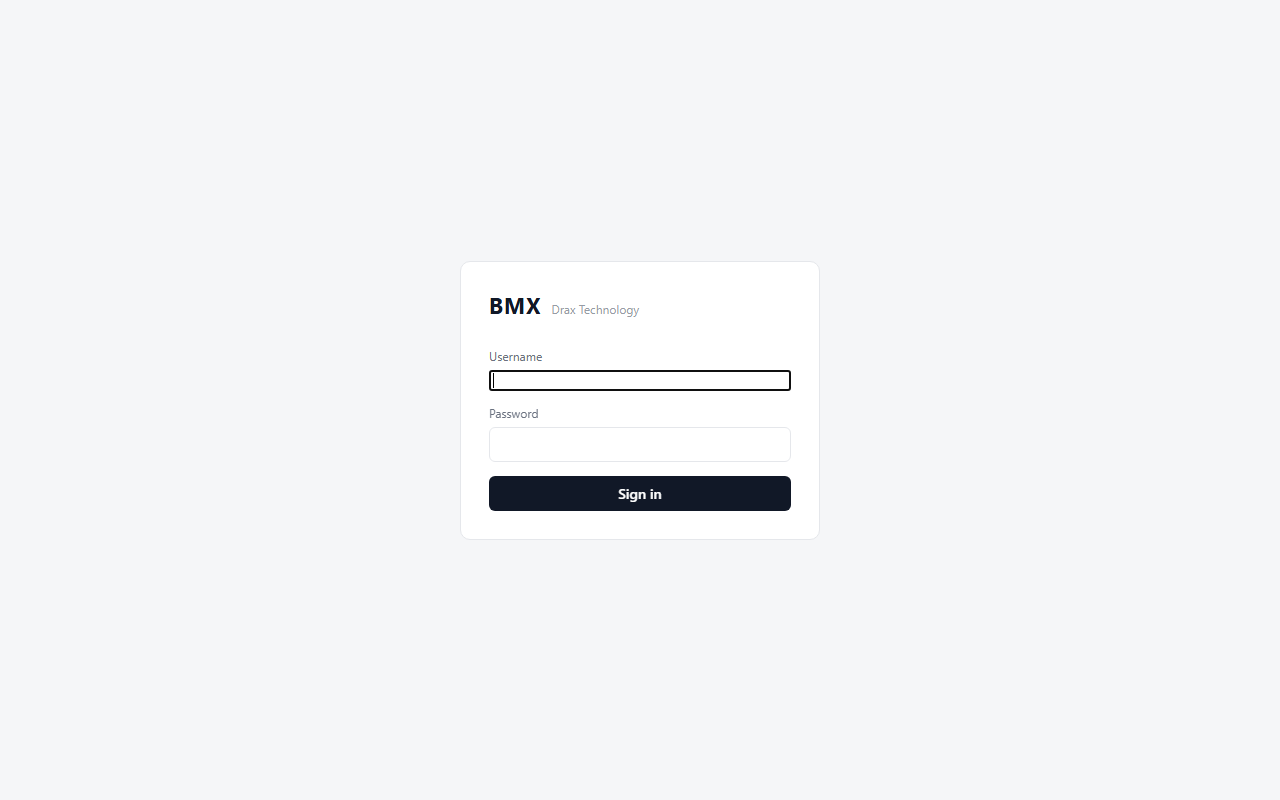
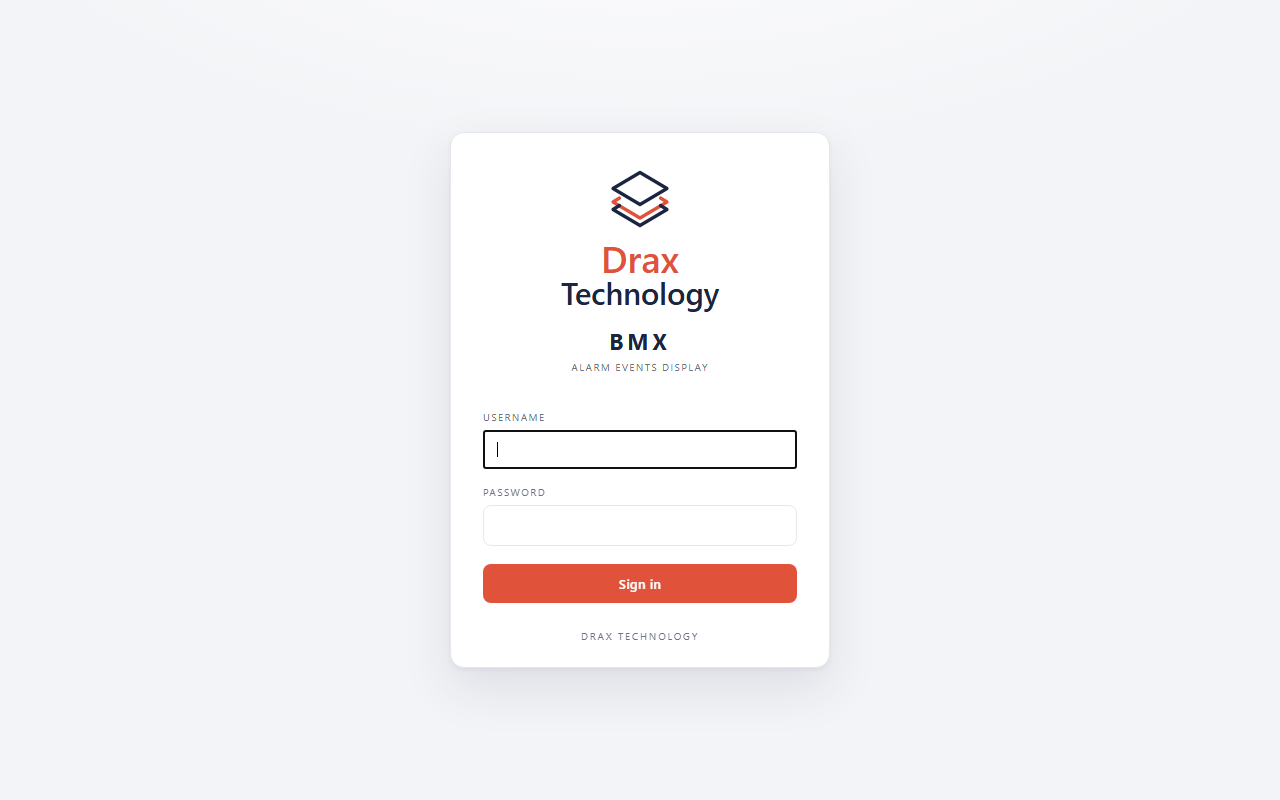
Drax Technology branding: inline SVG mark and wordmark, navy/orange palette, appliance-style status LEDs, letterspaced labels, footer

Changed region(s): [[0.375, 0.3125, 0.625, 0.6562], [0.375, 0.6875, 0.625, 0.8125], [0.4688, 0.2188, 0.5312, 0.2812]]

diff --git a/BMX/wwwroot/app.css b/BMX/wwwroot/app.css
@@ -1,22 +1,33 @@
+/* BMX · Drax Technology
+   Brand: navy #1b2540 and orange #e0523a from the Drax mark; the appliance
+   face look — white surfaces, a dark display, letterspaced uppercase labels,
+   small status LEDs. */
+
 :root {
-    --bg: #f5f6f8;
-    --panel: #ffffff;
-    --ink: #1f2937;
+    --navy: #1b2540;
+    --navy-deep: #131a2e;
+    --orange: #e0523a;
+    --orange-soft: #fdece8;
+    --bg: #f3f4f7;
+    --surface: #ffffff;
+    --ink: #1b2540;
     --muted: #6b7280;
-    --line: #e5e7eb;
-    --brand: #111827;
-    --ok: #15803d;
-    --bad: #b91c1c;
-    --alarm-bg: #fee2e2;
-    --alarm-ink: #7f1d1d;
-    --cleared-bg: #dcfce7;
+    --line: #e4e7ec;
+    --ok: #22c55e;
+    --amber: #f59e0b;
+    --red: #dc2626;
+    --alarm-bg: #fde8e4;
+    --alarm-ink: #7a1f12;
+    --cleared-bg: #e7f7ec;
     --cleared-ink: #14532d;
-    --fault-bg: #fef3c7;
-    --fault-ink: #78350f;
-    --iso-bg: #cffafe;
+    --fault-bg: #fff4d6;
+    --fault-ink: #713f12;
+    --iso-bg: #e0f4f8;
     --iso-ink: #164e63;
-    --control-bg: #e0e7ff;
-    --control-ink: #312e81;
+    --control-bg: #e8ebf5;
+    --control-ink: #1b2540;
+    --radius: 10px;
+    --shadow: 0 1px 2px rgba(27,37,64,.06), 0 8px 24px rgba(27,37,64,.06);
 }
 
 * { box-sizing: border-box; }
@@ -25,132 +36,226 @@ html, body {
     margin: 0;
     background: var(--bg);
     color: var(--ink);
-    font-family: "Segoe UI", system-ui, -apple-system, sans-serif;
+    font-family: "Segoe UI", system-ui, -apple-system, "Helvetica Neue", sans-serif;
     font-size: 14px;
+    -webkit-font-smoothing: antialiased;
 }
 
 a { color: inherit; text-decoration: none; }
 
-h1 { font-size: 20px; font-weight: 600; margin: 0 0 16px; }
-h2 { font-size: 15px; font-weight: 600; margin: 0 0 12px; }
+h1 { font-size: 20px; font-weight: 600; margin: 0 0 16px; letter-spacing: -.01em; }
+h2 {
+    font-size: 11px;
+    font-weight: 600;
+    letter-spacing: .14em;
+    text-transform: uppercase;
+    color: var(--muted);
+    margin: 0 0 14px;
+}
 
+/* ---- logo ---- */
+.drax-logo { display: inline-flex; align-items: center; gap: 10px; }
+.drax-logo-stacked { flex-direction: column; gap: 10px; }
+.drax-mark { display: block; flex: none; }
+.drax-wordmark { display: inline-flex; flex-direction: column; line-height: 1.02; font-weight: 600; letter-spacing: -.01em; }
+.drax-logo-stacked .drax-wordmark { align-items: center; }
+.drax-word-drax { color: var(--orange); font-size: calc(var(--logo-size) * .58); }
+.drax-word-tech { color: var(--navy); font-size: calc(var(--logo-size) * .48); font-weight: 500; }
+
+.product { display: inline-flex; flex-direction: column; line-height: 1.05; padding-left: 14px; border-left: 1px solid var(--line); }
+.product-name { font-weight: 700; font-size: 17px; letter-spacing: .12em; color: var(--navy); }
+.product-tag { font-size: 10px; letter-spacing: .14em; text-transform: uppercase; color: var(--muted); }
+
+/* ---- shell ---- */
 .shell { min-height: 100vh; display: flex; flex-direction: column; }
 
 .topbar {
     display: flex;
     align-items: center;
-    gap: 24px;
-    height: 52px;
-    padding: 0 20px;
-    background: var(--brand);
-    color: #fff;
+    gap: 28px;
+    height: 60px;
+    padding: 0 24px;
+    background: var(--surface);
+    border-bottom: 1px solid var(--line);
+    box-shadow: 0 1px 0 rgba(27,37,64,.03);
 }
+.topbar-brand { display: inline-flex; align-items: center; gap: 14px; }
 
-.brand { display: flex; align-items: baseline; gap: 10px; }
-.brand-mark { font-weight: 700; font-size: 18px; letter-spacing: .04em; }
-.brand-sub { font-size: 12px; opacity: .7; }
-
-.topnav { display: flex; gap: 4px; }
+.topnav { display: flex; gap: 2px; margin-left: 8px; }
 .topnav a {
-    padding: 6px 12px;
-    border-radius: 6px;
-    opacity: .75;
+    padding: 8px 14px;
+    border-radius: 8px;
+    color: var(--muted);
+    font-weight: 500;
+    font-size: 13px;
+    letter-spacing: .02em;
 }
-.topnav a:hover { opacity: 1; background: rgba(255,255,255,.08); }
-.topnav a.active { opacity: 1; background: rgba(255,255,255,.14); }
+.topnav a:hover { color: var(--navy); background: var(--bg); }
+.topnav a.active { color: var(--navy); background: var(--control-bg); }
 
 .topbar-right { margin-left: auto; display: flex; align-items: center; gap: 12px; }
-.who { opacity: .8; }
+.who { color: var(--muted); font-size: 13px; }
 form.inline { display: inline; margin: 0; }
 
-.content { padding: 20px; flex: 1; }
+.content { padding: 22px 24px; flex: 1; }
 
-.statusbar { display: flex; flex-wrap: wrap; gap: 8px; margin-bottom: 12px; }
-.pill {
-    padding: 4px 10px;
-    border-radius: 999px;
-    background: var(--panel);
-    border: 1px solid var(--line);
+.footer {
+    padding: 14px 24px;
     color: var(--muted);
-    font-size: 12px;
+    font-size: 10px;
+    letter-spacing: .14em;
+    text-transform: uppercase;
+    display: flex;
+    gap: 10px;
+    border-top: 1px solid var(--line);
 }
-.pill-ok { border-color: var(--ok); color: var(--ok); }
-.pill-bad { border-color: var(--bad); color: var(--bad); }
+.footer .dot { opacity: .5; }
 
-.toolbar { display: flex; flex-wrap: wrap; align-items: center; gap: 8px; margin-bottom: 12px; }
+/* ---- status LEDs (the appliance face) ---- */
+.statusbar {
+    display: flex;
+    flex-wrap: wrap;
+    align-items: center;
+    gap: 22px;
+    margin-bottom: 14px;
+    padding: 12px 18px;
+    background: var(--navy-deep);
+    color: #e5e7eb;
+    border-radius: var(--radius);
+    font-size: 11px;
+    letter-spacing: .14em;
+    text-transform: uppercase;
+}
+.led { display: inline-flex; align-items: center; gap: 9px; }
+.led i { width: 8px; height: 8px; border-radius: 50%; background: #4b5563; box-shadow: 0 0 0 2px rgba(255,255,255,.05); }
+.led-ok i { background: var(--ok); box-shadow: 0 0 8px rgba(34,197,94,.7); }
+.led-bad i { background: var(--red); box-shadow: 0 0 8px rgba(220,38,38,.7); }
+.led-alarm i { background: var(--orange); box-shadow: 0 0 8px rgba(224,82,58,.8); animation: pulse 1.2s ease-in-out infinite; }
+.led-idle i { background: #4b5563; }
+.status-meta { margin-left: auto; color: #9ca3af; letter-spacing: .08em; text-transform: none; font-size: 12px; }
+
+@keyframes pulse { 0%, 100% { opacity: 1; } 50% { opacity: .35; } }
+
+/* ---- toolbar ---- */
+.toolbar { display: flex; flex-wrap: wrap; align-items: center; gap: 8px; margin-bottom: 14px; }
 .toolbar .spacer { flex: 1; }
 .filter, .panel-select, input[type=text], input[type=password] {
-    padding: 7px 10px;
+    padding: 8px 12px;
     border: 1px solid var(--line);
-    border-radius: 6px;
-    background: var(--panel);
+    border-radius: 8px;
+    background: var(--surface);
     font: inherit;
     color: inherit;
+    outline: none;
 }
-.filter { min-width: 320px; }
+.filter:focus, .panel-select:focus, input[type=text]:focus, input[type=password]:focus {
+    border-color: var(--navy);
+    box-shadow: 0 0 0 3px rgba(27,37,64,.10);
+}
+.filter { min-width: 340px; }
 .check { color: var(--muted); display: flex; align-items: center; gap: 6px; }
 
 .btn {
-    padding: 7px 14px;
+    padding: 8px 16px;
     border: 1px solid transparent;
-    border-radius: 6px;
-    background: var(--panel);
+    border-radius: 8px;
+    background: var(--surface);
     font: inherit;
     font-weight: 600;
+    font-size: 13px;
+    letter-spacing: .02em;
     cursor: pointer;
     color: var(--ink);
+    transition: filter .12s ease, transform .05s ease;
 }
-.btn:disabled { opacity: .45; cursor: default; }
-.btn-primary { background: var(--brand); color: #fff; }
-.btn-quiet { background: transparent; border-color: var(--line); color: inherit; font-weight: 500; }
-.topbar .btn-quiet { border-color: rgba(255,255,255,.25); color: #fff; }
-.btn-amber { background: #f59e0b; color: #fff; }
-.btn-green { background: #16a34a; color: #fff; }
-.btn-block { width: 100%; margin-top: 8px; }
+.btn:hover:not(:disabled) { filter: brightness(1.06); }
+.btn:active:not(:disabled) { transform: translateY(1px); }
+.btn:disabled { opacity: .4; cursor: default; }
+.btn-primary { background: var(--orange); color: #fff; }
+.btn-navy { background: var(--navy); color: #fff; }
+.btn-amber { background: var(--amber); color: #fff; }
+.btn-quiet { background: transparent; border-color: var(--line); color: var(--muted); font-weight: 500; }
+.btn-quiet:hover { color: var(--navy); }
+.btn-block { width: 100%; margin-top: 12px; padding: 10px 16px; }
 
 .notice {
-    padding: 8px 12px;
+    padding: 8px 14px;
     margin-bottom: 12px;
-    background: var(--panel);
-    border-left: 3px solid var(--brand);
-    border-radius: 4px;
+    background: var(--surface);
+    border-left: 3px solid var(--orange);
+    border-radius: 6px;
     color: var(--muted);
 }
 
-.table-wrap { background: var(--panel); border: 1px solid var(--line); border-radius: 8px; overflow: auto; }
+/* ---- events table ---- */
+.table-wrap { background: var(--surface); border: 1px solid var(--line); border-radius: var(--radius); overflow: auto; box-shadow: var(--shadow); }
 table.events { width: 100%; border-collapse: collapse; }
-table.events th, table.events td { padding: 8px 12px; text-align: left; border-bottom: 1px solid var(--line); white-space: nowrap; }
-table.events th { font-weight: 600; color: var(--muted); font-size: 12px; text-transform: uppercase; letter-spacing: .04em; }
+table.events th, table.events td { padding: 9px 14px; text-align: left; border-bottom: 1px solid var(--line); white-space: nowrap; }
+table.events th {
+    font-weight: 600;
+    color: var(--muted);
+    font-size: 10px;
+    letter-spacing: .14em;
+    text-transform: uppercase;
+    background: #fafbfc;
+}
+table.events tbody tr:last-child td { border-bottom: none; }
 table.events td.text { white-space: normal; }
-.mono { font-family: Consolas, "Cascadia Mono", monospace; }
+.mono { font-family: Consolas, "Cascadia Mono", monospace; font-size: 13px; }
+.caps { text-transform: uppercase; letter-spacing: .06em; font-size: 12px; font-weight: 600; }
 
 .row-alarm td { background: var(--alarm-bg); color: var(--alarm-ink); }
 .row-cleared td { background: var(--cleared-bg); color: var(--cleared-ink); }
 .row-fault td { background: var(--fault-bg); color: var(--fault-ink); }
 .row-isolation td { background: var(--iso-bg); color: var(--iso-ink); }
 .row-control td { background: var(--control-bg); color: var(--control-ink); }
-.row-empty td { color: var(--muted); text-align: center; padding: 32px; }
+.row-empty td { color: var(--muted); text-align: center; padding: 40px; }
 
-.state { padding: 2px 8px; border-radius: 4px; font-size: 12px; font-weight: 700; }
-.state-on { background: var(--bad); color: #fff; }
+.state { padding: 2px 9px; border-radius: 4px; font-size: 11px; font-weight: 700; letter-spacing: .08em; }
+.state-on { background: var(--orange); color: #fff; }
 .state-off { background: var(--line); color: var(--ink); }
 
-.card { background: var(--panel); border: 1px solid var(--line); border-radius: 8px; padding: 16px 20px; margin-bottom: 16px; max-width: 720px; }
-.kv { display: grid; grid-template-columns: 160px 1fr; gap: 6px 12px; margin: 0; }
+/* ---- cards (settings) ---- */
+.card { background: var(--surface); border: 1px solid var(--line); border-radius: var(--radius); padding: 18px 22px; margin-bottom: 16px; max-width: 720px; box-shadow: var(--shadow); }
+.kv { display: grid; grid-template-columns: 170px 1fr; gap: 8px 12px; margin: 0; }
 .kv dt { color: var(--muted); }
 .kv dd { margin: 0; }
-.hint { color: var(--muted); font-size: 12px; margin: 12px 0 0; }
+.hint { color: var(--muted); font-size: 12px; margin: 14px 0 0; }
 .form-row { display: flex; gap: 8px; }
 table.plain { border-collapse: collapse; }
-table.plain th, table.plain td { padding: 6px 12px 6px 0; text-align: left; border-bottom: 1px solid var(--line); }
-table.plain th { color: var(--muted); font-size: 12px; font-weight: 600; }
+table.plain th, table.plain td { padding: 6px 14px 6px 0; text-align: left; border-bottom: 1px solid var(--line); }
+table.plain th { color: var(--muted); font-size: 10px; letter-spacing: .14em; text-transform: uppercase; font-weight: 600; }
 
-.login-shell { min-height: 100vh; display: grid; place-items: center; background: var(--bg); }
-.login-card { width: 360px; background: var(--panel); border: 1px solid var(--line); border-radius: 10px; padding: 28px; }
-.login-brand { display: flex; align-items: baseline; gap: 10px; margin-bottom: 20px; }
-.login-brand .brand-mark { font-size: 22px; color: var(--brand); }
-.login-brand .brand-sub { color: var(--muted); }
+/* ---- login ---- */
+.login-shell {
+    min-height: 100vh;
+    display: grid;
+    place-items: center;
+    background:
+        radial-gradient(1200px 600px at 50% -200px, #ffffff 0%, var(--bg) 60%),
+        var(--bg);
+}
+.login-card {
+    width: 380px;
+    background: var(--surface);
+    border: 1px solid var(--line);
+    border-radius: 14px;
+    padding: 36px 32px 24px;
+    box-shadow: 0 2px 4px rgba(27,37,64,.05), 0 20px 50px rgba(27,37,64,.10);
+}
+.login-brand { display: flex; justify-content: center; margin-bottom: 18px; }
+.login-product { display: flex; flex-direction: column; align-items: center; gap: 4px; margin-bottom: 26px; }
+.login-product .product-name { font-size: 22px; letter-spacing: .18em; }
 .login-form { display: flex; flex-direction: column; gap: 6px; }
-.login-form label { font-size: 12px; color: var(--muted); margin-top: 8px; }
-.form-error { color: var(--bad); font-size: 13px; margin-top: 8px; }
-.validation-message { color: var(--bad); font-size: 12px; }
+.login-form label { font-size: 10px; letter-spacing: .14em; text-transform: uppercase; color: var(--muted); margin-top: 10px; }
+.login-form input { padding: 10px 12px; }
+.form-error { color: var(--red); font-size: 13px; margin-top: 8px; }
+.validation-message { color: var(--red); font-size: 12px; }
+.login-foot {
+    margin-top: 26px;
+    text-align: center;
+    font-size: 10px;
+    letter-spacing: .18em;
+    text-transform: uppercase;
+    color: var(--muted);
+}
